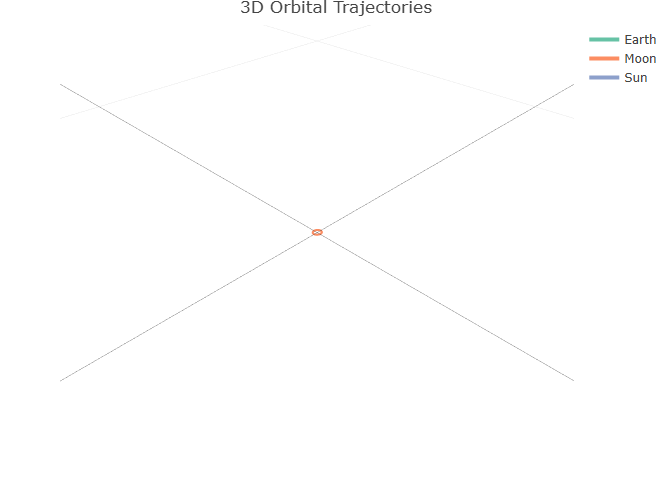
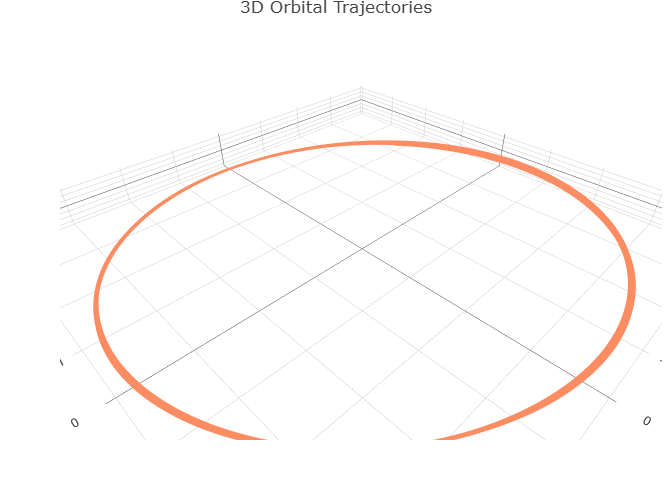
removed animation plot that doesnt work

diff --git a/README.md b/README.md
@@ -585,7 +585,10 @@ and hover to see timestamps.
 ### Sun-Earth-Moon in 3D
 
 The same three-body system from earlier, but with the Moon’s orbital
-inclination included:
+inclination included. Note the use of `keep_center = FALSE` to remove
+Earth from the plot and `dplyr::filter()` to drop the Sun — without
+this, the Sun’s enormous apparent orbit (~150 billion m) dwarfs the
+Moon’s trajectory (~384 million m) and you can’t see anything useful:
 
     create_system() |>
       add_body("Sun",   mass = mass_sun) |>
@@ -595,7 +598,8 @@ inclination included:
                vy = speed_earth + speed_moon * cos(5 * pi / 180),
                vz = speed_moon * sin(5 * pi / 180)) |>
       simulate(time_step = 3600, duration = 86400 * 365) |>
-      shift_reference_frame("Earth") |>
+      shift_reference_frame("Earth", keep_center = FALSE) |>
+      dplyr::filter(id == "Moon") |>
       plot_orbits()
 
 ![](README_files/figure-markdown_strict/unnamed-chunk-9-1.png)
@@ -741,7 +745,7 @@ and add markers at the start and end of each orbit:
           color = ~speed,
           colorscale = 'Viridis',
           showscale = TRUE,
-          colorbar = list(title = "Speed (m/s)")
+          colorbar = list(title = "Speed (m/s)", y = 0.3, len = 0.5)
         ),
         name = "Moon"
       ) |>
@@ -754,6 +758,7 @@ and add markers at the start and end of each orbit:
       ) |>
       layout(
         title = "Lunar Orbit — Colored by Speed",
+        legend = list(y = 0.9),
         scene = list(
           xaxis = list(title = 'X (m)'),
           yaxis = list(title = 'Y (m)'),
@@ -763,41 +768,6 @@ and add markers at the start and end of each orbit:
       )
 
 ![](README_files/figure-markdown_strict/unnamed-chunk-14-1.png)
-
-Or an animated time-slider view of the three-body system:
-
-    sim_3body <- create_system() |>
-      add_body("Sun",   mass = mass_sun) |>
-      add_body("Earth", mass = mass_earth, x = distance_earth_sun, vy = speed_earth) |>
-      add_body("Moon",  mass = mass_moon,
-               x = distance_earth_sun + distance_earth_moon,
-               vy = speed_earth + speed_moon * cos(5 * pi / 180),
-               vz = speed_moon * sin(5 * pi / 180)) |>
-      simulate(time_step = 86400, duration = 86400 * 365) |>
-      shift_reference_frame("Earth", keep_center = FALSE)
-
-    # Plot trails + current position markers using frame for animation
-    sim_3body |>
-      dplyr::mutate(day = round(time / 86400)) |>
-      plot_ly(
-        x = ~x, y = ~y, z = ~z,
-        color = ~id,
-        frame = ~day,
-        type = 'scatter3d',
-        mode = 'markers',
-        marker = list(size = 4)
-      ) |>
-      layout(
-        title = "Earth-Centered View (Animated)",
-        scene = list(
-          xaxis = list(title = 'X (m)'),
-          yaxis = list(title = 'Y (m)'),
-          zaxis = list(title = 'Z (m)'),
-          aspectmode = "data"
-        )
-      )
-
-![](README_files/figure-markdown_strict/unnamed-chunk-15-1.png)
 
 The point is the same as with `ggplot2`: `simulate()` returns a standard
 tibble, so you have full access to `plotly`’s API for anything the
